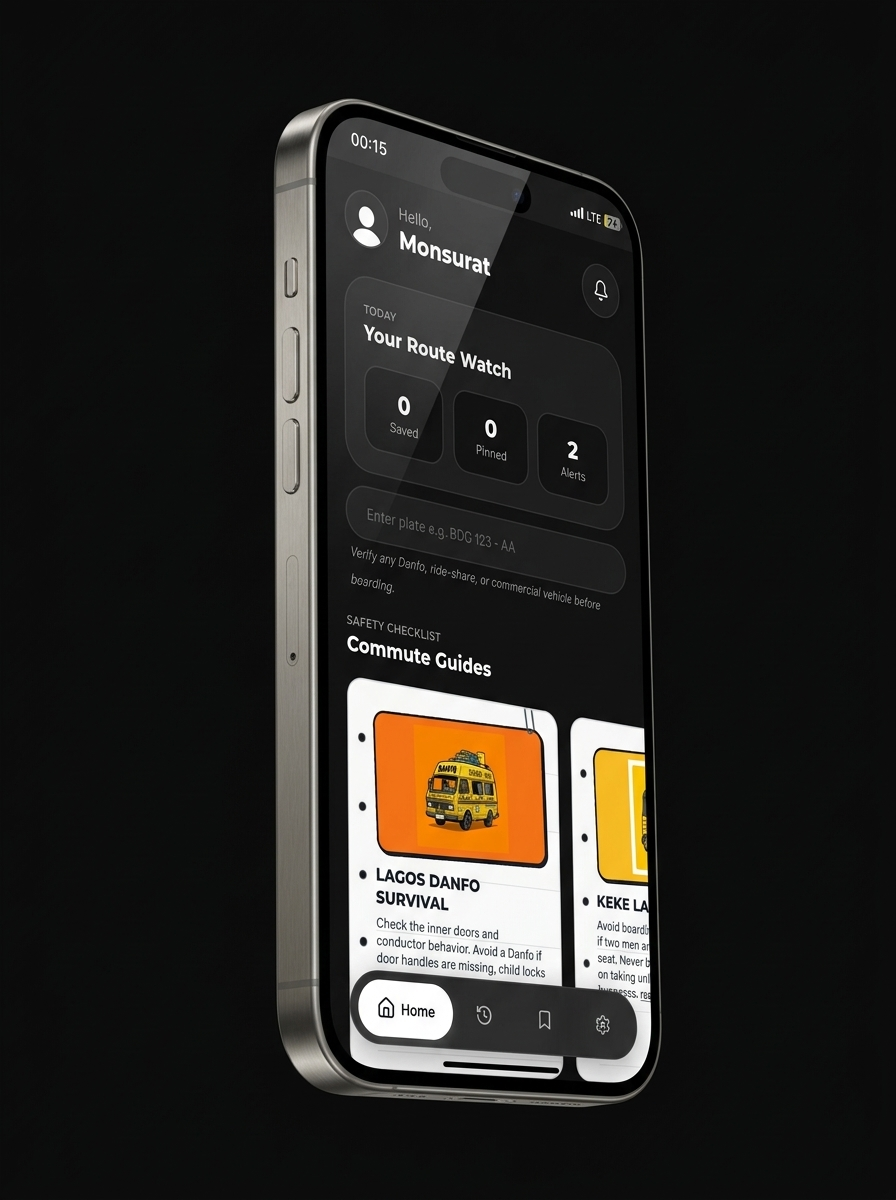
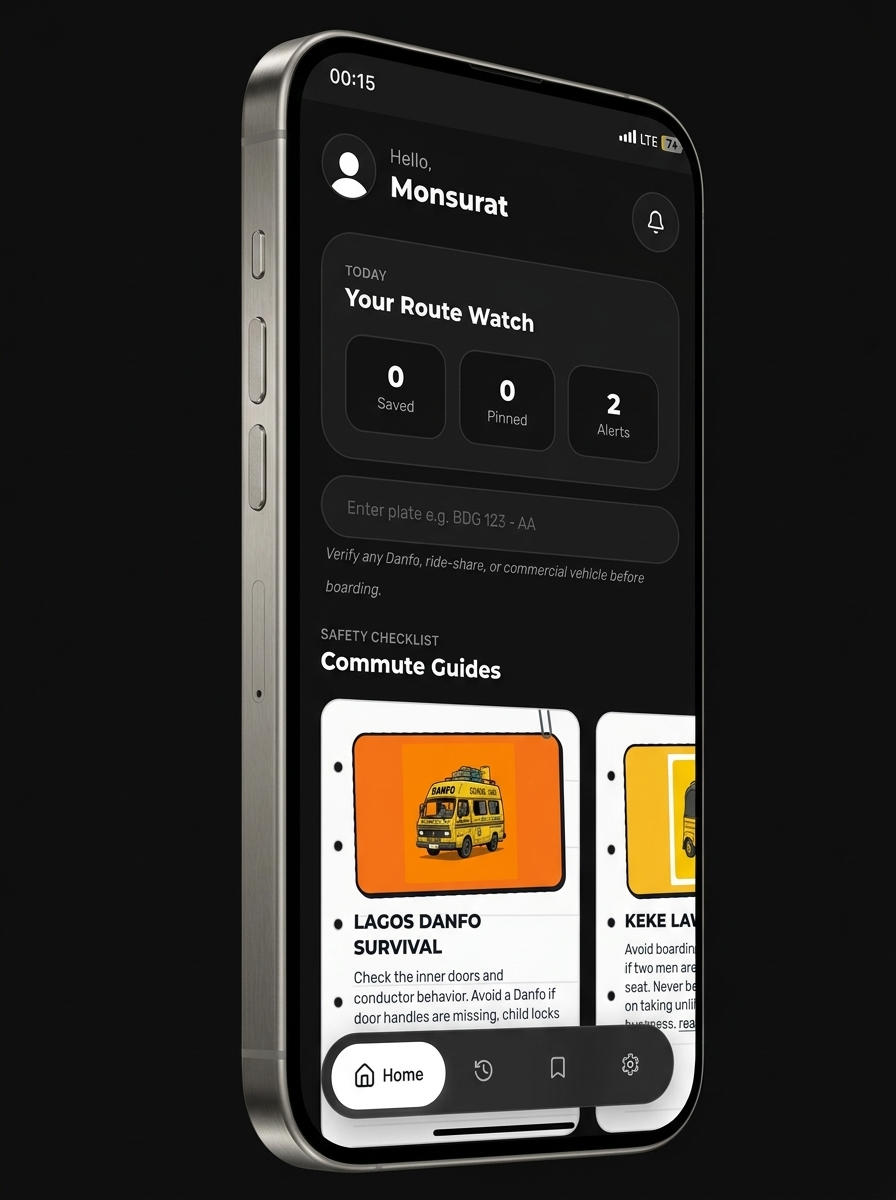
fix: eliminate 3D right-side rim glitch and upscale phone mockup in hero section

Changed region(s): [[0.25, 0.0, 0.7812, 0.9867], [0.5938, 0.0617, 0.7812, 0.1233], [0.625, 0.37, 0.6562, 0.4008]]

diff --git a/app/landing-page.module.css b/app/landing-page.module.css
@@ -447,11 +447,11 @@
 
 .heroPhoneStandaloneImage {
   width: 100%;
-  max-width: 380px;
+  max-width: 480px;
   height: auto;
   display: block;
   object-fit: contain;
-  filter: drop-shadow(0 20px 50px rgba(0, 0, 0, 0.7));
+  filter: drop-shadow(0 24px 60px rgba(0, 0, 0, 0.8));
   transition: transform 0.4s cubic-bezier(0.16, 1, 0.3, 1);
 }
 
